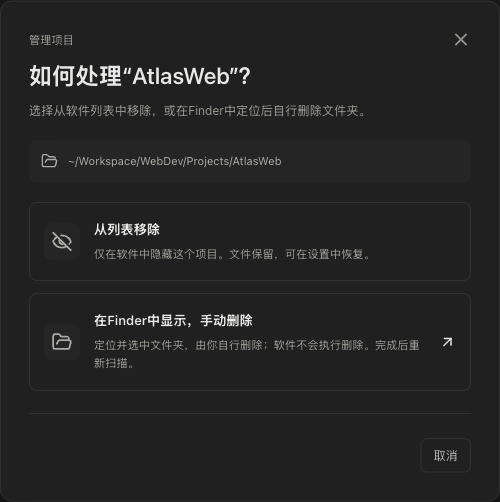
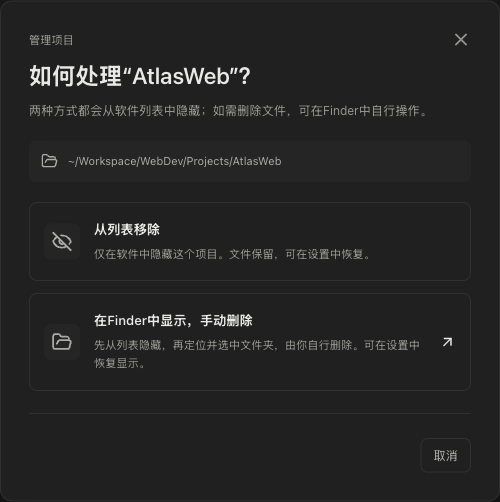
Hide items when choosing manual deletion before revealing in Finder

Changed region(s): [[0.18, 0.6574, 0.84, 0.747], [0.06, 0.2092, 0.84, 0.239]]

diff --git a/src/RemoveItemDialog.tsx b/src/RemoveItemDialog.tsx
@@ -14,12 +14,10 @@ export function RemoveItemDialog({
   target,
   onClose,
   onRemoved,
-  onRevealed,
 }: {
   target: RemovalTarget;
   onClose: () => void;
-  onRemoved: (next: AppState) => void;
-  onRevealed: () => void;
+  onRemoved: (next: AppState, revealed: boolean) => void;
 }) {
   const [busy, setBusy] = useState<'remove' | 'reveal' | null>(null);
   const [error, setError] = useState('');
@@ -33,10 +31,9 @@ export function RemoveItemDialog({
     setError('');
     try {
       if (action === 'remove')
-        onRemoved(await window.workspaceAPI.removeItem(target.kind, target.key));
+        onRemoved(await window.workspaceAPI.removeItem(target.kind, target.key), false);
       else {
-        await window.workspaceAPI.revealItem(target.kind, target.key);
-        onRevealed();
+        onRemoved(await window.workspaceAPI.revealItem(target.kind, target.key), true);
       }
     } catch (reason) {
       setError(
@@ -68,7 +65,7 @@ export function RemoveItemDialog({
         </div>
         <h2 id="remove-title">如何处理“{target.name}”？</h2>
         <p className="settings-description" id="remove-description">
-          选择从软件列表中移除，或在{folderName}中定位后自行删除文件夹。
+          两种方式都会从软件列表中隐藏；如需删除文件，可在{folderName}中自行操作。
         </p>
         <div className="removal-path">
           <FolderOpen size={17} />
@@ -99,7 +96,7 @@ export function RemoveItemDialog({
           </span>
           <span>
             <strong>在{folderName}中显示，手动删除</strong>
-            <small>定位并选中文件夹，由你自行删除；软件不会执行删除。完成后重新扫描。</small>
+            <small>先从列表隐藏，再定位并选中文件夹，由你自行删除。可在设置中恢复显示。</small>
           </span>
           <ArrowUpRight size={17} />
         </button>

diff --git a/src/main.tsx b/src/main.tsx
@@ -935,15 +935,15 @@ function App() {
         <RemoveItemDialog
           target={removalTarget}
           onClose={() => setRemovalTarget(null)}
-          onRemoved={(next) => {
+          onRemoved={(next, revealed) => {
             setState(next);
             if (removalTarget.kind === 'category') select('all');
             setRemovalTarget(null);
-            setMessage('已从列表移除，文件仍在原位置，可在设置中恢复');
-          }}
-          onRevealed={() => {
-            setRemovalTarget(null);
-            setMessage(`已在 ${folderName} 中定位，请自行操作；完成后重新扫描`);
+            setMessage(
+              revealed
+                ? `已从列表移除，并在 ${folderName} 中定位，请自行删除文件夹`
+                : '已从列表移除，文件仍在原位置，可在设置中恢复',
+            );
           }}
         />
       )}

diff --git a/src/types.ts b/src/types.ts
@@ -54,7 +54,7 @@ export interface WorkspaceAPI {
   scan(): Promise<AppState>;
   removeItem(kind: 'category' | 'project', key: string): Promise<AppState>;
   restoreItem(kind: 'category' | 'project' | 'all', key?: string): Promise<AppState>;
-  revealItem(kind: 'category' | 'project', key: string): Promise<void>;
+  revealItem(kind: 'category' | 'project', key: string): Promise<AppState>;
   createCategory(name: string, style: CategoryStyle): Promise<AppState>;
   setCategoryStyle(category: string, style: CategoryStyle): Promise<AppState>;
   createProject(category: string, name: string): Promise<AppState>;

diff --git a/README.en.md b/README.en.md
@@ -174,7 +174,7 @@ Category appearances stay in local preferences; no configuration files are added
 Click the hide icon on a project card, or beside the selected category's title, to open a dialog:
 
 - **从列表移除** (Remove from list): hide the item in the current workspace. Removing a category also hides its projects. This persists across rescans and restarts while keeping all files intact.
-- **在 Finder / 资源管理器中显示，手动删除** (Show in Finder / File Explorer for manual deletion): locate and select the folder so you can delete it yourself. The app neither deletes files nor automatically hides the entry. Click **Rescan** afterward.
+- **在 Finder / 资源管理器中显示，手动删除** (Show in Finder / File Explorer for manual deletion): immediately hide the entry, then locate and select the folder so you can delete it yourself. The app does not delete files. Even if you keep the folder, the entry stays hidden across rescans and restarts and can be restored in Settings.
 - **Restore:** open **Settings… → 已移除的内容** (Removed items) from the native menu to restore individual entries or everything. Projects removed individually stay hidden when their category is restored, until you restore them too. Favorites and recent activity are retained.
 
 Restoring clears the hidden entry only; folders deleted or moved outside the app are not recreated.

diff --git a/README.md b/README.md
@@ -174,7 +174,7 @@ npm run dev
 点击项目卡片上的隐藏图标，或选中分类后点击标题旁的隐藏图标，会打开操作弹窗：
 
 - **从列表移除**：仅在当前工作空间中隐藏；移除分类会连同其中的项目一起隐藏，重新扫描和重启仍然有效，磁盘文件保持原样。
-- **在 Finder / 资源管理器中显示，手动删除**：定位并选中文件夹，由你在系统中自行删除。应用不会执行删除，也不会自动移除列表项；完成后点击 **重新扫描**。
+- **在 Finder / 资源管理器中显示，手动删除**：立即从列表隐藏，再定位并选中文件夹，由你在系统中自行删除。应用不会执行删除；即使暂时没有删除文件，重新扫描和重启后也会保持隐藏，可在设置中恢复。
 - **恢复**：通过系统菜单打开 **设置… → 已移除的内容**，逐项或全部恢复。恢复分类时，之前单独移除的项目仍会隐藏，可再单独恢复。收藏与最近打开记录保留。
 
 恢复只清除隐藏记录；已经被手动删除或移动的文件夹不会重新创建。
